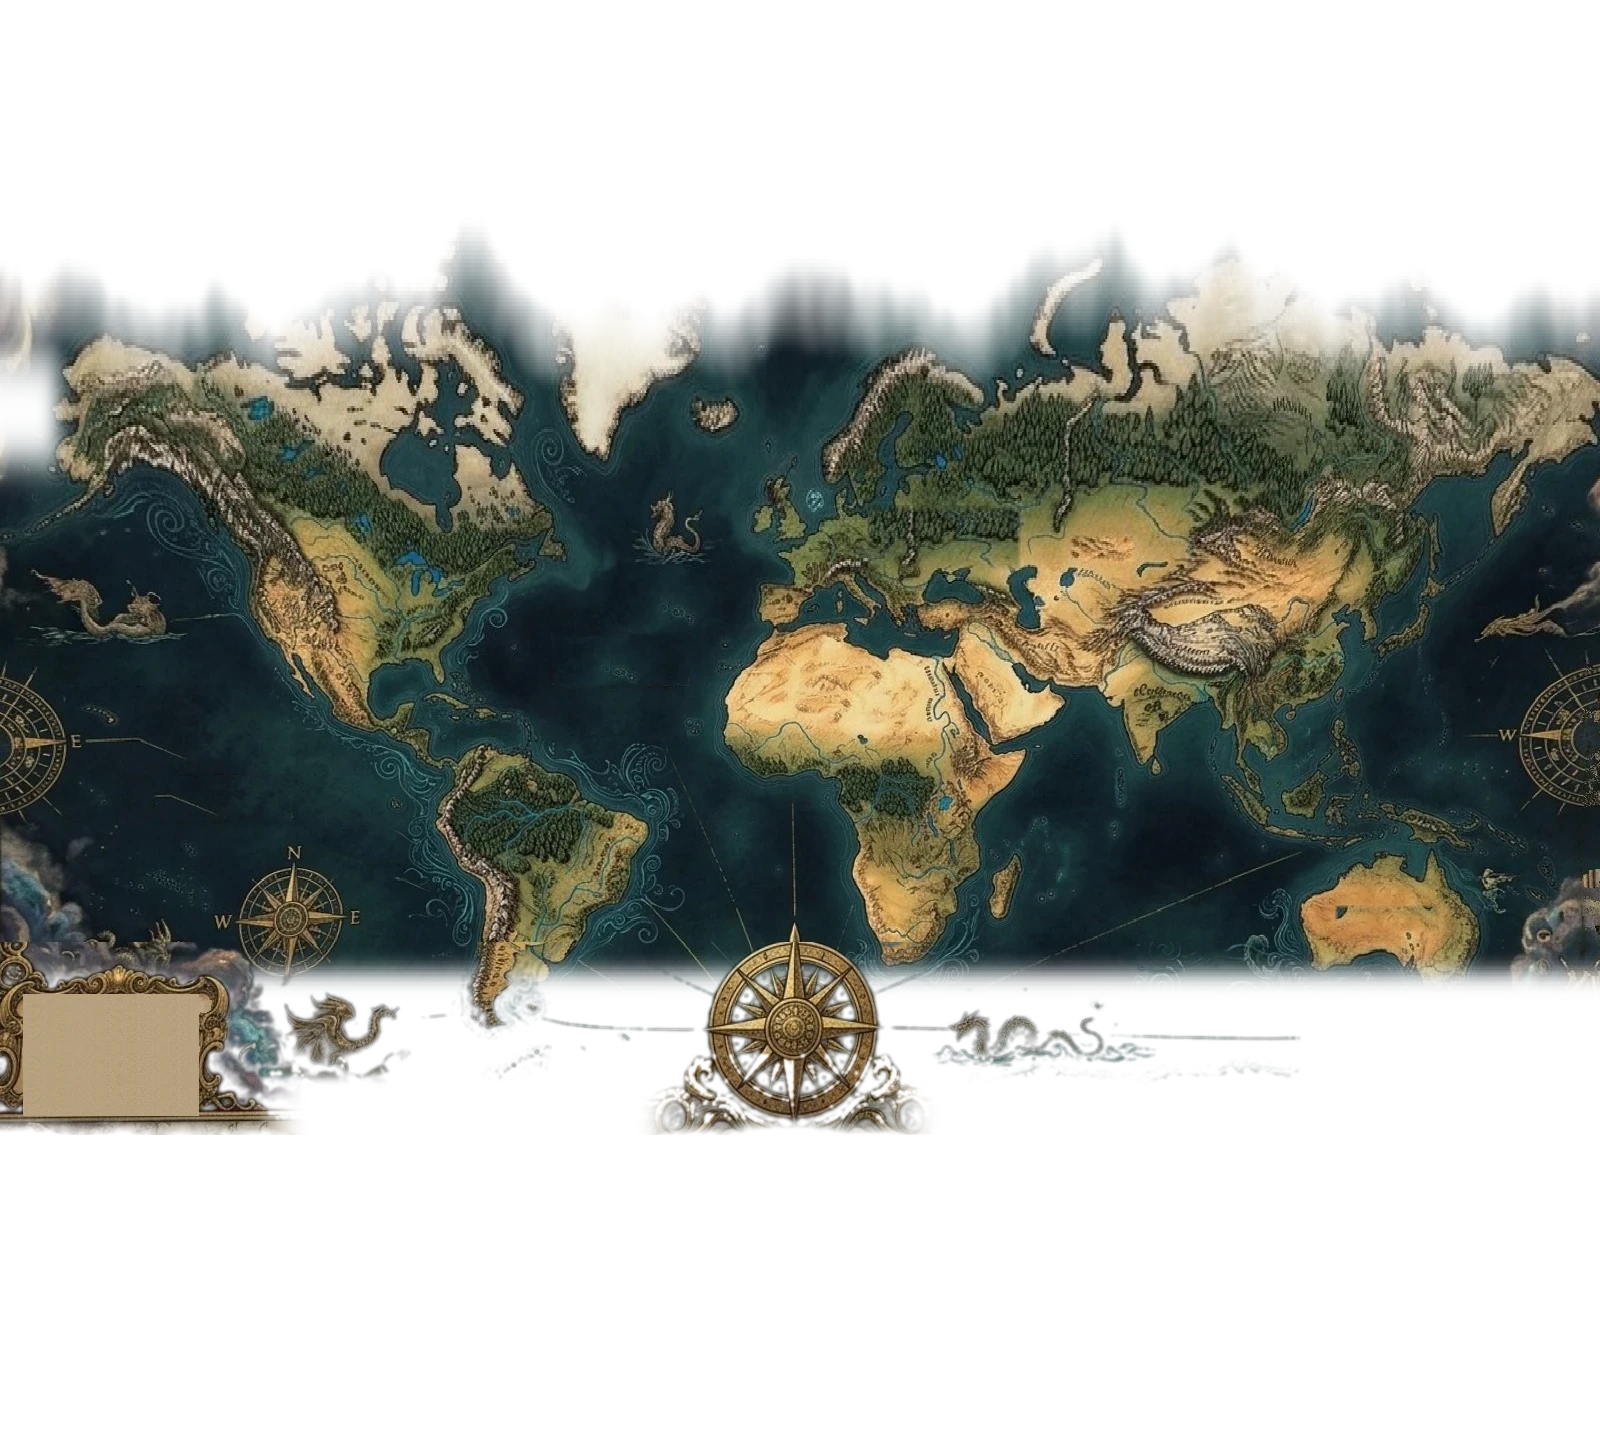
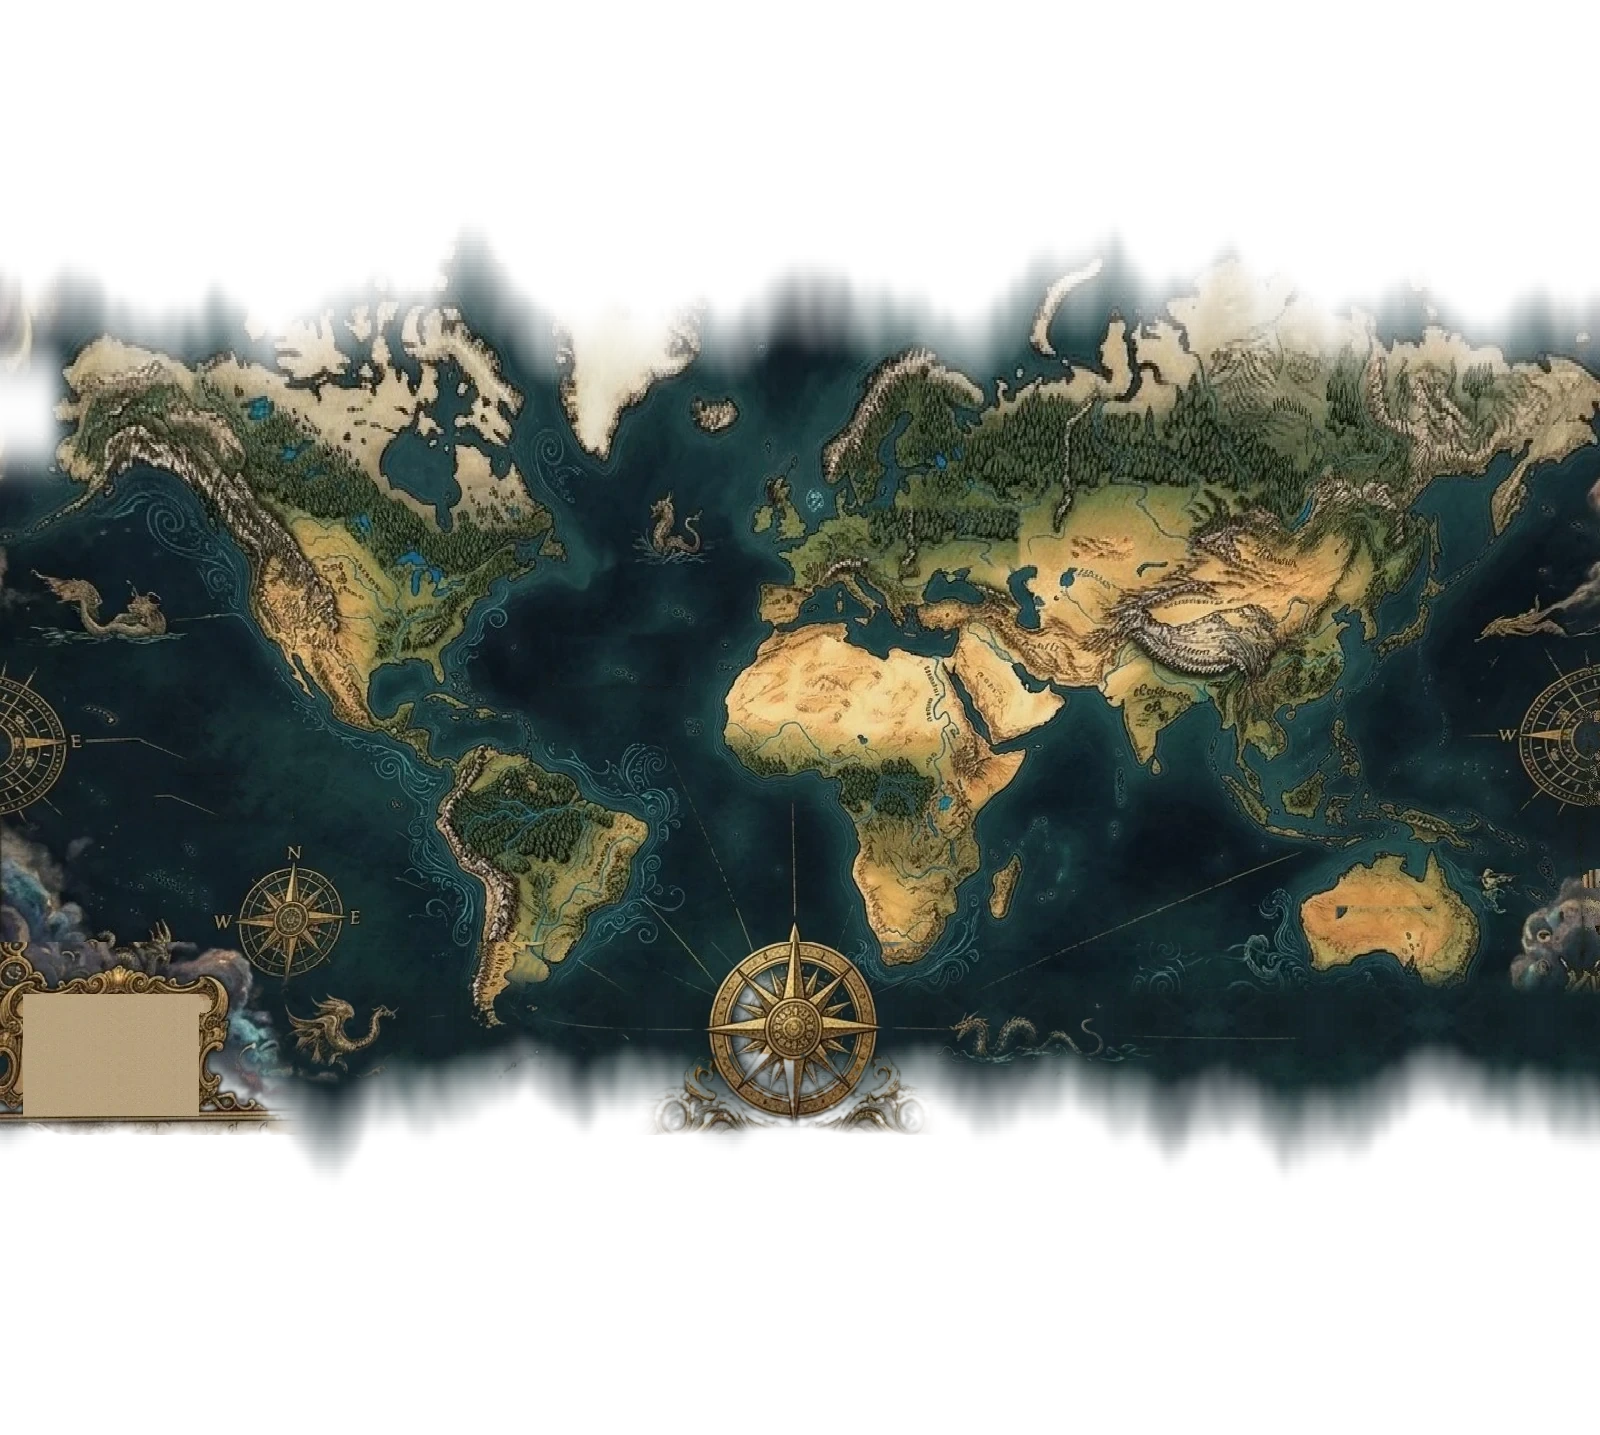
One world; misted southern edge on the atlas plate

Changed region(s): [[0.0938, 0.6439, 1.0, 0.8279], [0.0, 0.6746, 0.0625, 0.7052], [0.0, 0.7666, 0.0312, 0.7972]]

diff --git a/map/app.js b/map/app.js
@@ -671,6 +671,20 @@ function atlasWashRamp(z) {
   const t = z <= 6 ? 1 : z >= 13 ? 0.45 : 1 - (z - 6) * (0.55 / 7);
   return { t, sea: z <= 6 ? 1 : 0.7 };
 }
+// The screen rectangle the one world covers, in the GL canvas's own pixels,
+// bottom-left origin, clamped to the canvas: [x, y, width, height]. The washes
+// are a full-screen pass and are cut to this, so the empty space beside the
+// world is not tinted.
+const WORLD_EDGE_LAT = 85.0511287798066;
+function worldScissor(m, canvas) {
+  const scale = canvas.width / (canvas.clientWidth || canvas.width);
+  const pts = [[-180, WORLD_EDGE_LAT], [180, WORLD_EDGE_LAT], [180, -WORLD_EDGE_LAT], [-180, -WORLD_EDGE_LAT]]
+    .map((c) => m.project(c));
+  const xs = pts.map((p) => p.x * scale), ys = pts.map((p) => p.y * scale);
+  const x0 = Math.max(0, Math.floor(Math.min(...xs))), x1 = Math.min(canvas.width, Math.ceil(Math.max(...xs)));
+  const y0 = Math.max(0, Math.floor(Math.min(...ys))), y1 = Math.min(canvas.height, Math.ceil(Math.max(...ys)));
+  return [x0, canvas.height - y1, Math.max(0, x1 - x0), Math.max(0, y1 - y0)];
+}
 function hexRgb(h) {
   const n = parseInt(h.slice(1), 16);
   return [(n >> 16 & 255) / 255, (n >> 8 & 255) / 255, (n & 255) / 255];
@@ -742,12 +756,16 @@ const atlasWashes = {
       multiply: [gl.ZERO, gl.SRC_COLOR],
       gain:     [gl.DST_COLOR, gl.ONE],
     };
+    const [sx, sy, sw, sh] = worldScissor(this.map, this.map.getCanvas());
+    gl.enable(gl.SCISSOR_TEST);
+    gl.scissor(sx, sy, sw, sh);
     for (const pass of atlasWashPasses(this.map.getZoom())) {
       const [src, dst] = func[pass.mode];
       gl.blendFuncSeparate(src, dst, gl.ZERO, gl.ONE);
       gl.uniform3f(this.uCol, pass.rgb[0], pass.rgb[1], pass.rgb[2]);
       gl.drawArrays(gl.TRIANGLE_STRIP, 0, 4);
     }
+    gl.disable(gl.SCISSOR_TEST);
   },
 };
 
@@ -765,6 +783,8 @@ window.atlasTune = (next) => {
 
 const map = new maplibregl.Map({
   container: "map",
+  // One world. Repeated copies east and west read as more planet than there is.
+  renderWorldCopies: false,
   center: [12, 24],
   zoom: 1.6,
   attributionControl: { compact: true },

diff --git a/patch_one_world.py b/patch_one_world.py
@@ -1,0 +1,95 @@
+#!/usr/bin/env python3
+"""
+One world, not a row of them.
+
+- The map no longer repeats east and west of itself (renderWorldCopies: false).
+- The atlas's colour washes are drawn only over that one world. They are a
+  full-screen pass, so with the copies gone they would otherwise tint the empty
+  space beside it.
+- A test for each.
+
+The plate image itself (its misted southern edge) is a separate file in the
+same download: map/atlas-plate.webp, made by pipeline/plate/south_mist.py.
+
+Run from the repo root:  python3 patch_one_world.py
+"""
+import pathlib
+import sys
+
+ROOT = pathlib.Path(__file__).resolve().parent
+APP, TEST = ROOT / "map" / "app.js", ROOT / "map" / "test.mjs"
+app, test = APP.read_text(encoding="utf-8"), TEST.read_text(encoding="utf-8")
+
+if "renderWorldCopies: false" in app:
+    sys.exit("app.js already shows one world — nothing to do.")
+
+
+def once(text, old, new, where):
+    if text.count(old) != 1:
+        sys.exit(f"Could not find the expected text in {where} ({old.strip()[:70]!r}). Nothing was written.")
+    return text.replace(old, new)
+
+
+app = once(app, """const map = new maplibregl.Map({
+  container: "map",
+  center: [12, 24],""", """const map = new maplibregl.Map({
+  container: "map",
+  // One world. Repeated copies east and west read as more planet than there is.
+  renderWorldCopies: false,
+  center: [12, 24],""", "map/app.js")
+
+app = once(app, """function hexRgb(h) {""", """// The screen rectangle the one world covers, in the GL canvas's own pixels,
+// bottom-left origin, clamped to the canvas: [x, y, width, height]. The washes
+// are a full-screen pass and are cut to this, so the empty space beside the
+// world is not tinted.
+const WORLD_EDGE_LAT = 85.0511287798066;
+function worldScissor(m, canvas) {
+  const scale = canvas.width / (canvas.clientWidth || canvas.width);
+  const pts = [[-180, WORLD_EDGE_LAT], [180, WORLD_EDGE_LAT], [180, -WORLD_EDGE_LAT], [-180, -WORLD_EDGE_LAT]]
+    .map((c) => m.project(c));
+  const xs = pts.map((p) => p.x * scale), ys = pts.map((p) => p.y * scale);
+  const x0 = Math.max(0, Math.floor(Math.min(...xs))), x1 = Math.min(canvas.width, Math.ceil(Math.max(...xs)));
+  const y0 = Math.max(0, Math.floor(Math.min(...ys))), y1 = Math.min(canvas.height, Math.ceil(Math.max(...ys)));
+  return [x0, canvas.height - y1, Math.max(0, x1 - x0), Math.max(0, y1 - y0)];
+}
+function hexRgb(h) {""", "map/app.js")
+
+app = once(app, """    for (const pass of atlasWashPasses(this.map.getZoom())) {
+      const [src, dst] = func[pass.mode];
+      gl.blendFuncSeparate(src, dst, gl.ZERO, gl.ONE);
+      gl.uniform3f(this.uCol, pass.rgb[0], pass.rgb[1], pass.rgb[2]);
+      gl.drawArrays(gl.TRIANGLE_STRIP, 0, 4);
+    }
+  },""", """    const [sx, sy, sw, sh] = worldScissor(this.map, this.map.getCanvas());
+    gl.enable(gl.SCISSOR_TEST);
+    gl.scissor(sx, sy, sw, sh);
+    for (const pass of atlasWashPasses(this.map.getZoom())) {
+      const [src, dst] = func[pass.mode];
+      gl.blendFuncSeparate(src, dst, gl.ZERO, gl.ONE);
+      gl.uniform3f(this.uCol, pass.rgb[0], pass.rgb[1], pass.rgb[2]);
+      gl.drawArrays(gl.TRIANGLE_STRIP, 0, 4);
+    }
+    gl.disable(gl.SCISSOR_TEST);
+  },""", "map/app.js")
+
+TESTS = r'''
+console.log("\none world");
+{
+  const src = fs.readFileSync(path.join(HERE, "app.js"), "utf8");
+  const opts = src.slice(src.indexOf("const map = new maplibregl.Map({"), src.indexOf("style: {", src.indexOf("const map = new maplibregl.Map({")));
+  check("the world is not repeated east and west", /renderWorldCopies:\s*false/.test(opts));
+  const fn = new Function(src.match(/const WORLD_EDGE_LAT[\s\S]*?\nfunction worldScissor[\s\S]*?\n}\n/)[0] + "; return worldScissor;")();
+  // A 1000 × 500 CSS-pixel map drawn at 2× where the world spans x 200..800, y 0..500 and beyond.
+  const m = { project: ([lng, lat]) => ({ x: 500 + lng * (300 / 180), y: 250 - lat * (400 / 85.0511287798066) }) };
+  const canvas = { width: 2000, height: 1000, clientWidth: 1000 };
+  const [x, y, w, h] = fn(m, canvas);
+  check("the washes are cut to the world's width, in device pixels", x === 400 && w === 1200, JSON.stringify([x, y, w, h]));
+  check("…and to the canvas where the world runs off it", y === 0 && h === 1000, JSON.stringify([x, y, w, h]));
+  check("the wash pass turns the cut on and off again", /gl\.enable\(gl\.SCISSOR_TEST\)[\s\S]{0,400}gl\.disable\(gl\.SCISSOR_TEST\)/.test(src));
+}
+'''
+test = once(test, 'console.log("\\nlegibility");', TESTS + '\nconsole.log("\\nlegibility");', "map/test.mjs")
+
+APP.write_text(app, encoding="utf-8")
+TEST.write_text(test, encoding="utf-8")
+print("One world: copies off, washes cut to the world; tests added.")

diff --git a/pipeline/plate/south_mist.py b/pipeline/plate/south_mist.py
@@ -1,0 +1,82 @@
+#!/usr/bin/env python3
+"""
+The painted plate's southern edge, misted like its northern one.
+
+The plate (map/atlas-plate.webp) fades organically into the imagery in the
+north, but in the south it stopped on a straight line at row 950 (about 32°S),
+with only the compass rose, cartouche and sea creatures below it. This gives
+the south the north's own edge: the northern mist, turned over and shifted half
+a world so the two do not mirror, over 250 rows as in the north. Under it the
+painting runs to its own end (row 995); below that, open water taken from the
+plate is filled in and toned to the painting's water, because the plate's
+padding there is flat smears. The ornaments keep their own pixels; only what
+showed through around them now shows mist.
+
+Run once from the repo root:  python3 pipeline/plate/south_mist.py
+"""
+import numpy as np
+from PIL import Image
+from scipy.ndimage import uniform_filter, gaussian_filter
+
+import pathlib, sys
+ROOT = pathlib.Path(__file__).resolve().parent.parent.parent
+SRC = ROOT / "map" / "atlas-plate.webp"
+im = np.array(Image.open(SRC).convert("RGBA")).astype(np.float64)
+H, W = im.shape[:2]
+rgb, A = im[:, :, :3], im[:, :, 3] / 255.0
+# Already done: the old plate is see-through at row 1060 except under the
+# ornaments (about a quarter of the row); the misted one is mostly covered.
+if (A[1060] > 0.3).mean() > 0.6:
+    sys.exit("The plate's southern edge is already misted — nothing to do.")
+
+LINE = 950          # where the old straight edge begins
+END = 1200          # where the new mist reaches nothing: 250 rows, as in the north
+
+# 1. The painting itself runs to about row 995; below that the plate was padded
+#    with flat and blocky fill. So: painting down to 995, open sea below, blended
+#    over forty rows, with the sea toned to the painting's own water at its edge.
+PAINT_END = 995
+patch = rgb[650:720, 120:230]             # open Pacific: the cleanest water on the plate, no lines or creatures
+def mirrored_tile(p, h, w):
+    row = np.concatenate([p, p[:, ::-1]], axis=1)
+    blk = np.concatenate([row, row[::-1]], axis=0)
+    reps = (h // blk.shape[0] + 1, w // blk.shape[1] + 1, 1)
+    return np.tile(blk, reps)[:h, :w]
+sea = mirrored_tile(patch, H - LINE, W)
+edge = rgb[960:PAINT_END]                               # the painting's last rows
+dark = edge.mean(axis=2) < np.percentile(edge.mean(axis=2), 60)   # water, not land
+tone = np.array([gaussian_filter1d_masked(edge[..., c], dark) for c in range(3)]) if False else None
+water = np.array([np.median(edge[..., c][dark]) for c in range(3)])
+sea = sea - sea.reshape(-1, 3).mean(axis=0) + water
+rows_below = np.arange(LINE, H)
+w = np.clip((rows_below - (PAINT_END - 40)) / 40.0, 0, 1)[:, None, None]   # 0 = painting, 1 = sea
+fill = rgb.copy()
+fill[LINE:] = rgb[LINE:] * (1 - w) + sea * w
+
+# 3. The edge: the northern mist, turned upside down and shifted half a world so
+#    it does not mirror the north, squeezed into LINE..END.
+north = A[200:500].copy()
+north[:, :40] = north[:, 40:41]          # the notch at the left edge is not part of the mist
+north = np.roll(north[::-1, ::-1], W // 2, axis=1)   # now full at row 0, empty at the bottom
+rows = np.linspace(0, north.shape[0] - 1, END - LINE)
+mist = np.zeros((H - LINE, W))
+lo = np.floor(rows).astype(int); hi = np.minimum(lo + 1, north.shape[0] - 1); t = rows - lo
+mist[:END - LINE] = north[lo] * (1 - t)[:, None] + north[hi] * t[:, None]
+mist[:4] = np.maximum(mist[:4], 1.0)      # joins the painting above without a seam
+
+# 4. The compass rose, cartouche and sea creatures keep their own pixels exactly;
+#    only what was see-through around them now shows mist instead of imagery.
+out = im.copy()
+ad = A[LINE:]
+aout = ad + mist * (1 - ad)
+num = rgb[LINE:] * ad[..., None] + fill[LINE:] * (mist * (1 - ad))[..., None]
+out[LINE:, :, :3] = np.where(aout[..., None] > 0, num / np.maximum(aout, 1e-6)[..., None], rgb[LINE:])
+out[LINE:, :, 3] = aout * 255
+Image.fromarray(np.clip(out, 0, 255).round().astype(np.uint8)).save(SRC, "WEBP", quality=92, alpha_quality=100, method=6)
+
+# checks
+new = out
+dec = (A[LINE:] > 0.98)
+print("decoration pixels unchanged:", np.abs(new[LINE:][dec] - im[LINE:][dec]).max())
+print("above the line unchanged:", np.abs(new[:LINE] - im[:LINE]).max())
+print("rows below END transparent except decorations:", float((new[END:, :, 3][A[END:] == 0]).max()))
